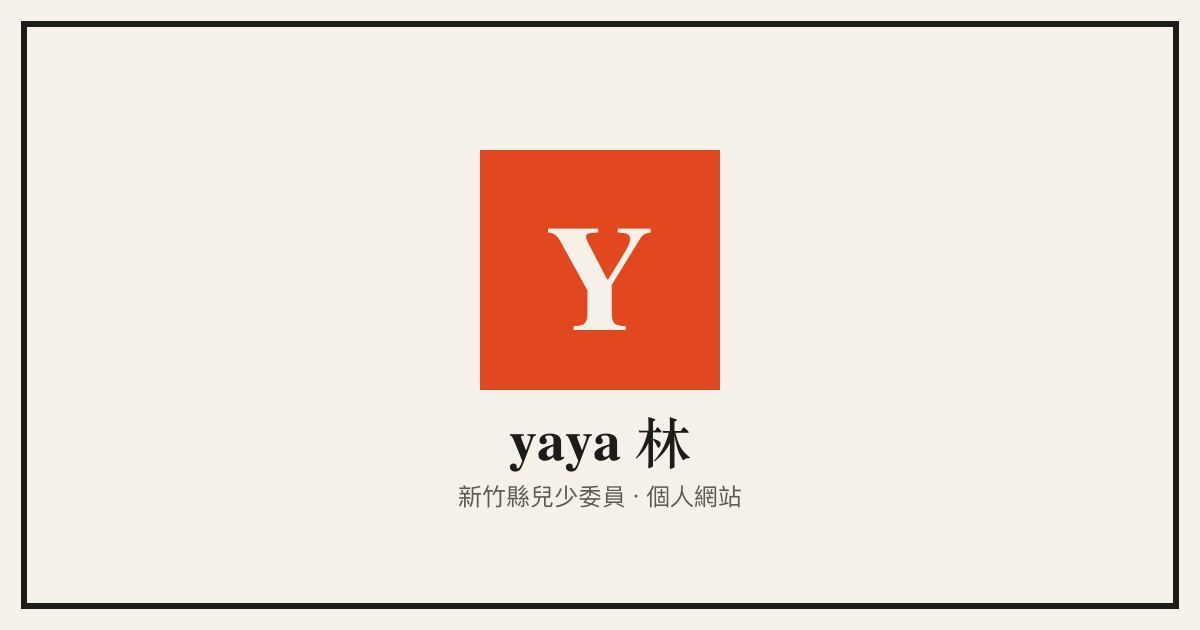
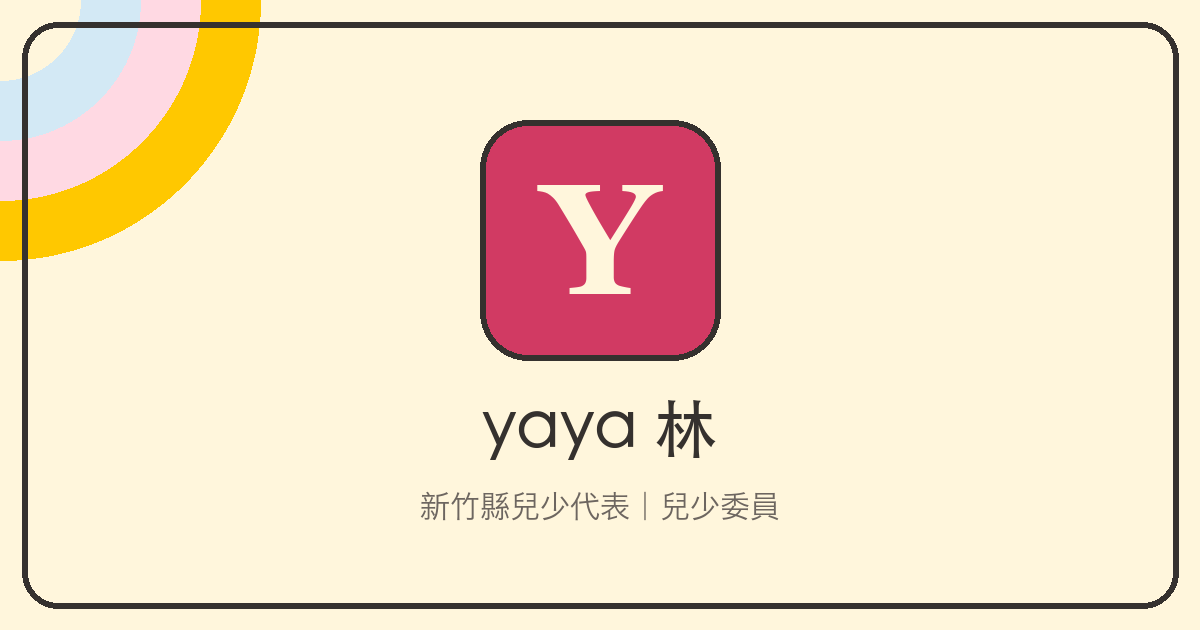
Restyle the whole site in a playful pastel look
Inspired by the Japanese school sites: butter/pink/blue palette with a
wine-red dark tone, thick outlines with offset yellow shadows, pill
buttons, dashed-stitch quick-link tiles, rainbow arc hero, ribbon menu.
Favicon, avatar and social image regenerated to match.

Changed region(s): [[0.0, 0.0, 0.9867, 0.9651], [0.3392, 0.181, 0.6475, 0.8444]]

diff --git a/src/styles/global.css b/src/styles/global.css
@@ -4,18 +4,19 @@
   --font-sans: "Noto Sans TC", "PingFang TC", "Microsoft JhengHei", ui-sans-serif, system-ui, sans-serif;
   --font-display: "Fraunces", "Noto Serif TC", serif;
 
-  --color-cream: #f5f0e6;
-  --color-cream-dark: #ebe4d6;
-  --color-sage: #55705a;
-  --color-sage-light: #e3e8de;
-  --color-sage-dark: #2f4a35;
-  --color-clay: #e2481f;
-  --color-clay-light: #f0d9cc;
-  --color-clay-dark: #b8360f;
-  --color-butter: #eab308;
-  --color-butter-light: #f0e8d0;
-  --color-ink: #171716;
-  --color-ink-light: #5c5b55;
+  --color-cream: #fff6dc;
+  --color-cream-dark: #f5e6b8;
+  --color-sage: #3f86ab;
+  --color-sage-light: #d3e9f5;
+  --color-sage-dark: #245a78;
+  --color-clay: #d13a63;
+  --color-clay-light: #ffd9e3;
+  --color-clay-dark: #a82348;
+  --color-butter: #ffc800;
+  --color-butter-light: #ffe996;
+  --color-ink: #35312e;
+  --color-ink-light: #6d6660;
+  --color-wine: #6e2a35;
 }
 
 html {
@@ -24,8 +25,58 @@ html {
 
 body {
   background-color: var(--color-cream);
+  background-image: radial-gradient(rgba(53, 49, 46, 0.07) 1.4px, transparent 1.4px);
+  background-size: 24px 24px;
   color: var(--color-ink);
   font-family: var(--font-sans);
+}
+
+/* ---------- 可愛粉彩風的共用元件（參考日本校園網站） ---------- */
+@layer components {
+  /* 所有粗外框的方塊統一圓角 */
+  .border-2.border-ink {
+    border-radius: 0.9rem;
+  }
+
+  .card-pop {
+    background: #fffdf5;
+    border: 2px solid var(--color-ink);
+    border-radius: 1.5rem;
+    box-shadow: 6px 6px 0 var(--color-butter);
+  }
+
+  .btn-pop {
+    display: inline-block;
+    background: var(--color-butter);
+    color: var(--color-ink);
+    border: 2px solid var(--color-ink);
+    border-radius: 9999px;
+    font-weight: 600;
+    box-shadow: 0 4px 0 var(--color-ink);
+    transition: transform 0.15s ease, box-shadow 0.15s ease, background-color 0.15s ease;
+  }
+  .btn-pop:hover {
+    background: var(--color-clay-light);
+  }
+  .btn-pop:active {
+    transform: translateY(3px);
+    box-shadow: 0 1px 0 var(--color-ink);
+  }
+
+  .tile {
+    position: relative;
+    border-radius: 1.25rem;
+    outline: 2px dashed rgba(53, 49, 46, 0.5);
+    outline-offset: -9px;
+    transition: transform 0.2s ease;
+  }
+  .tile:hover {
+    transform: translateY(-4px);
+  }
+
+  .marker {
+    background: linear-gradient(transparent 58%, var(--color-butter) 58%, var(--color-butter) 92%, transparent 92%);
+  }
 }
 
 ::selection {
